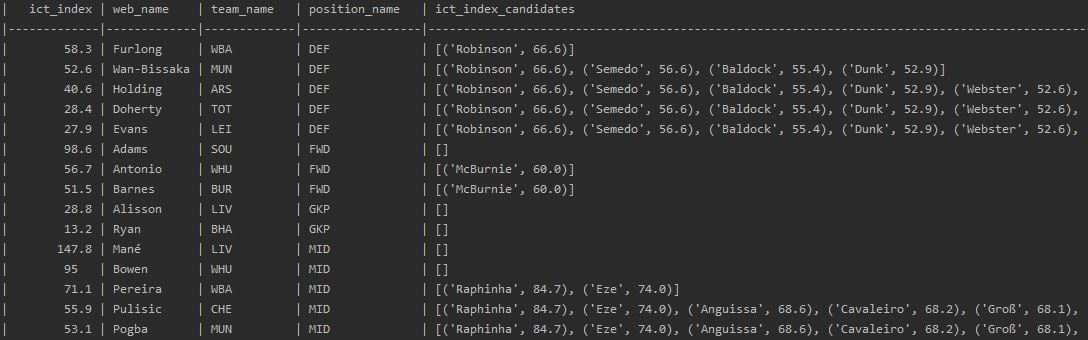
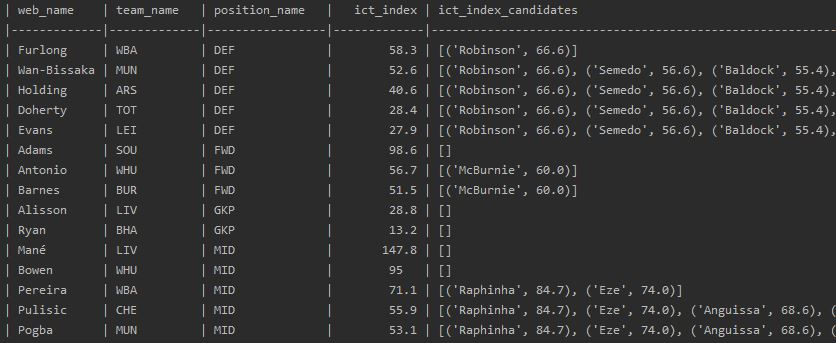
Fix output format and update screenshot for README.md

diff --git a/app.py b/app.py
@@ -1,3 +1,5 @@
+from collections import OrderedDict
+
 import requests
 import pandas as pd
 from tabulate import tabulate
@@ -333,22 +335,14 @@ def print_candidates(fplPlayerData, projectionsData, team, nanCount, inactiveCou
     printListIctIndex = []
     sixGameProjectionHeader = projectionsData[0].columns.values[-2]
     nextGameWeekHeader = projectionsData[0].columns.values[-8]
-    nextGameWeekPlusOneHeader = projectionsData[0].columns.values[-7]
-    nextGameWeekPlusTwoHeader = projectionsData[0].columns.values[-6]
-    nextGameWeekPlusThreeHeader = projectionsData[0].columns.values[-5]
-    nextGameWeekPlusFourHeader = projectionsData[0].columns.values[-4]
-    nextGameWeekPlusFiveHeader = projectionsData[0].columns.values[-3]
 
     for i in team:
-        printDictPoints = {k: v for k, v in i.items() if k in {'web_name', 'team_name', 'position_name',
-                                                               sixGameProjectionHeader, nextGameWeekHeader,
-                                                               nextGameWeekPlusOneHeader, nextGameWeekPlusTwoHeader,
-                                                               nextGameWeekPlusThreeHeader, nextGameWeekPlusFourHeader,
-                                                               nextGameWeekPlusFiveHeader, 'candidates',
-                                                               'candidates_this_gw'}}
+        printDictPoints = OrderedDict((k, i[k]) for k in (
+        'web_name', 'team_name', 'position_name', sixGameProjectionHeader, nextGameWeekHeader, 'candidates',
+        'candidates_this_gw'))
         printListPoints.append(printDictPoints)
-        printDictIctIndex = {k: v for k, v in i.items() if k in {'web_name', 'team_name', 'position_name',
-                                                                 'ict_index', 'ict_index_candidates'}}
+        printDictIctIndex = OrderedDict(
+            (k, i[k]) for k in ('web_name', 'team_name', 'position_name', 'ict_index', 'ict_index_candidates'))
         printListIctIndex.append(printDictIctIndex)
 
     sortedPrintListPoints = sorted(printListPoints, key=lambda x: (x['position_name'], -x[sixGameProjectionHeader]))
@@ -359,7 +353,7 @@ def print_candidates(fplPlayerData, projectionsData, team, nanCount, inactiveCou
     print(str(len(fplPlayerData['elements']) - inactiveCount)
           + " active players from the official API have been matched to " + str(len(fplPlayerData['elements'])
                                                                                 - inactiveCount + (
-                                                                                            inactiveCount - nanCount)) + " valid Scout projections.")
+                                                                                        inactiveCount - nanCount)) + " valid Scout projections.")
     failed_merge = [i for i in fplPlayerData['elements'] if i['merge_status'] != 'both' and i['status'] != 'u']
     no_projections = [i for i in fplPlayerData['elements'] if
                       math.isnan(i[sixGameProjectionHeader]) and i['status'] != 'u']
